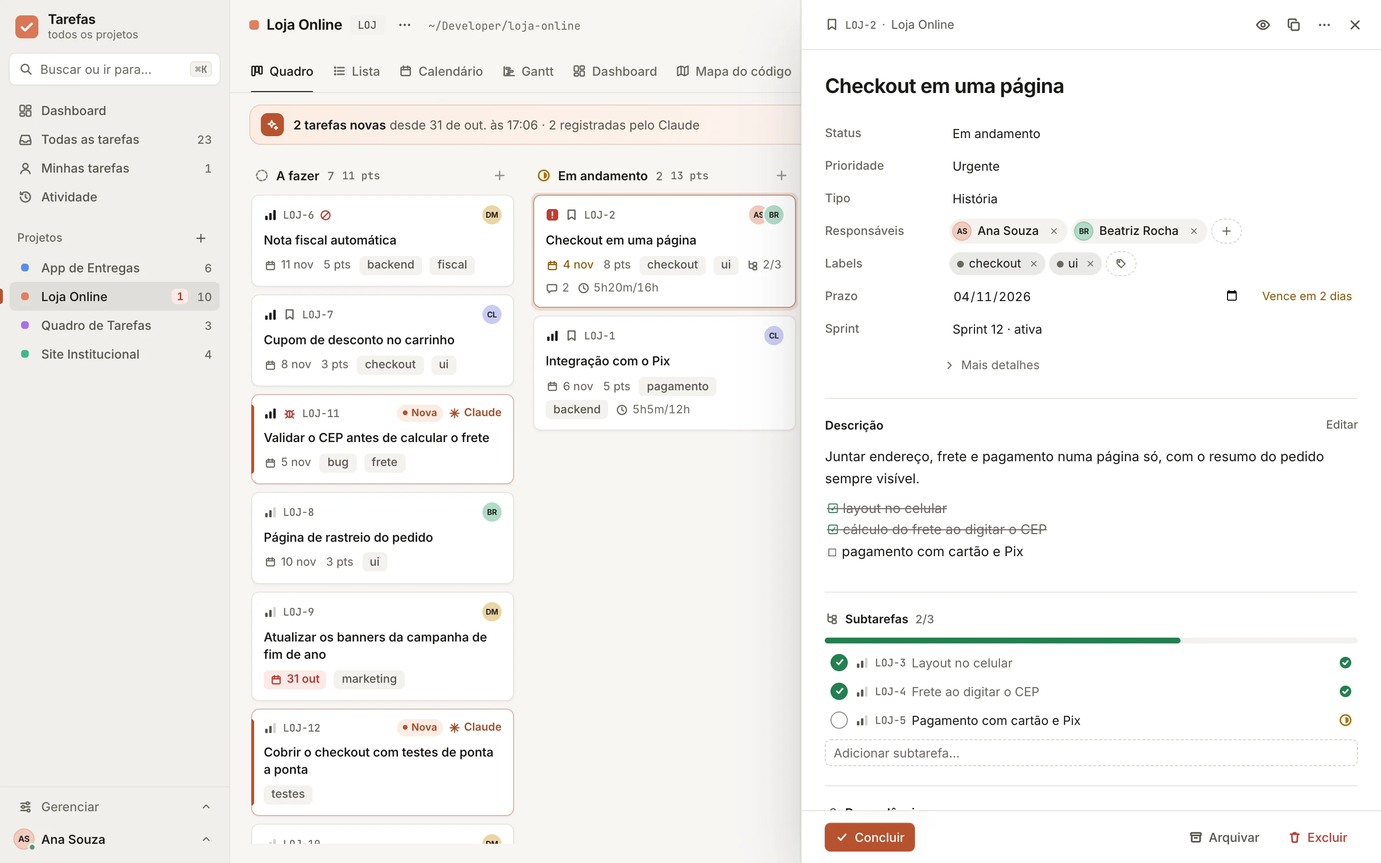
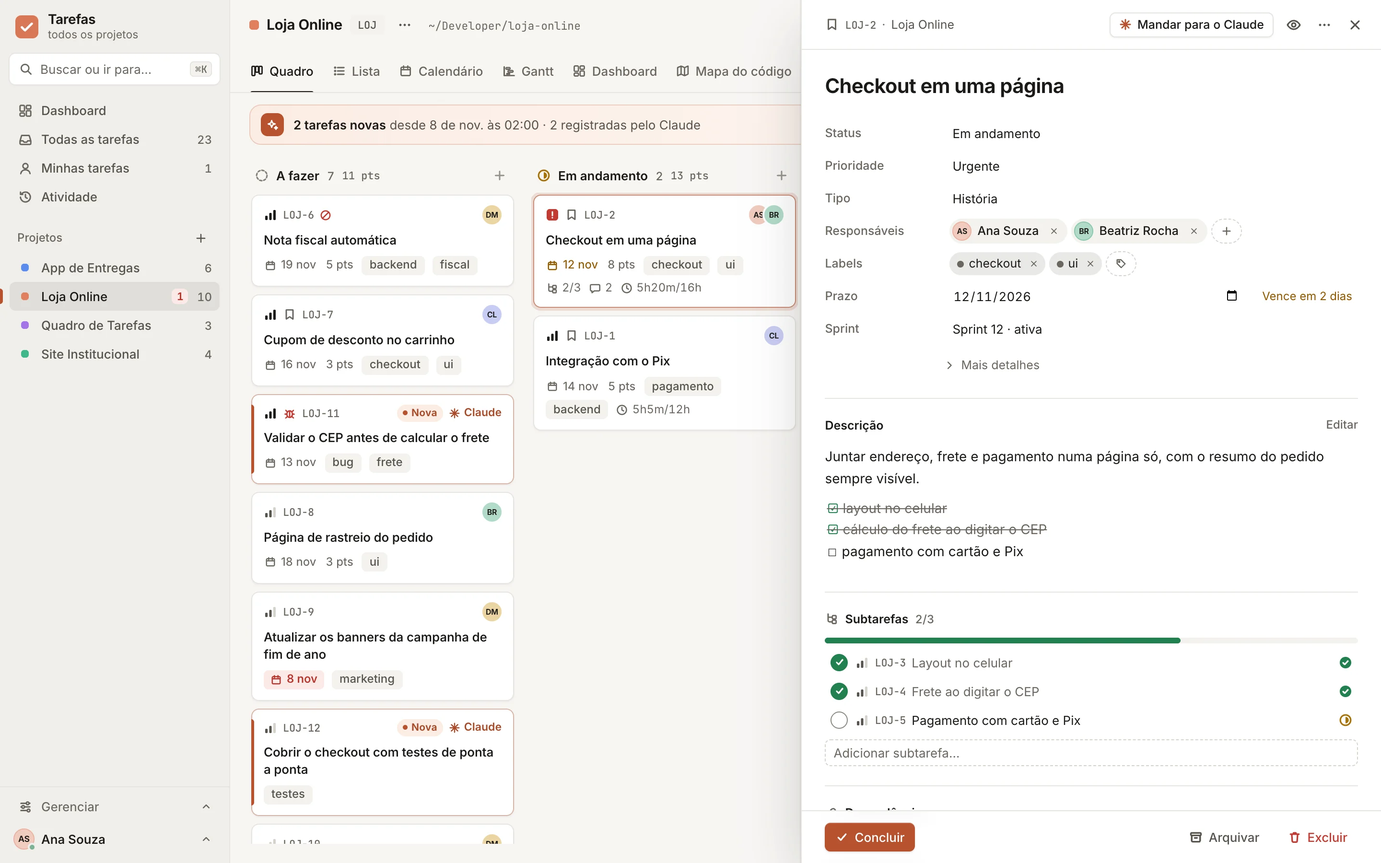
Botão "Mandar para o Claude" e prompt resolver no MCP
O detalhe da tarefa já copiava um pedido para o Claude, mas por um ícone
sem texto. Ele vira o botão "Mandar para o Claude": copia o pedido com o
número ou o código do cartão e diz em que pasta a sessão deve estar. No
celular a ação fica no menu ⋯, que também ganha "Copiar comando do
Terminal" em projetos com pasta.

MCP 4.3: o prompt resolver pega uma tarefa específica, avisa se ela está
concluída, arquivada ou bloqueada e se a sessão está fora da pasta do
projeto. Os prompts concluir e quebrar_tarefa passam a entender o código
do projeto (WEB-12), que antes era lido como o número geral 12.

No cabeçalho do detalhe, o código da tarefa não quebra mais em duas
linhas, os nomes longos encurtam com reticências e o selo do Claude fica
compacto.

O teste de recorrência usava datas fixas e só passava até 04/11/2026;
agora usa datas a partir de hoje.

diff --git a/public/js/drawer.js b/public/js/drawer.js
@@ -443,10 +443,10 @@ function render() {
       ${x.parent_id ? `<span>·</span><button class="link-btn parent" data-open="${x.parent_id}">${ICON.subtask}${esc(x.parent_title || `#${x.parent_id}`)}</button>` : ''}
       ${x.archived_at ? `<span class="chip">${t('arquivada')}</span>` : ''}
       ${!canEdit ? `<span class="chip">${ICON.eye}${t('somente leitura')}</span>` : ''}
-      ${x.source === 'claude' ? `<span class="by claude" title="${esc(t('Criada pelo Claude'))}">${ICON.claude}${t('Registrada pelo Claude')}</span>` : ''}
+      ${x.source === 'claude' ? `<span class="by claude" title="${esc(t('Registrada pelo Claude'))}">${ICON.claude}${t('Claude')}</span>` : ''}
       <span class="spacer"></span>
+      <button class="btn bordered small send-claude" data-action="copy" aria-label="${esc(t('Mandar para o Claude'))}" title="${esc(t('Copiar pedido para colar numa sessão do Claude'))}">${ICON.claude}<span>${t('Mandar para o Claude')}</span></button>
       <button class="icon-btn small ${watching ? 'on' : ''}" data-action="watch" aria-pressed="${!!watching}" aria-label="${esc(watching ? t('Deixar de acompanhar') : t('Acompanhar (receber notificações)'))}" title="${esc(watching ? t('Deixar de acompanhar') : t('Acompanhar (receber notificações)'))}">${ICON.eye}</button>
-      <button class="icon-btn small" data-action="copy" aria-label="${esc(t('Copiar pedido para colar numa sessão do Claude'))}" title="${esc(t('Copiar pedido para colar numa sessão do Claude'))}">${ICON.copy}</button>
       <button class="icon-btn small" data-action="more" aria-label="${esc(t('Mais ações'))}" title="${esc(t('Mais ações'))}" aria-haspopup="menu" aria-expanded="false">${ICON.more}</button>
       <button class="icon-btn small" data-action="close" aria-label="${esc(t('Fechar (Esc)'))}" title="${esc(t('Fechar (Esc)'))}">${ICON.close}</button>
     </div>
@@ -579,16 +579,45 @@ async function shareTask() {
   refreshDrawer();
 }
 
+// O pedido que a pessoa cola numa sessão do Claude. Leva o número que aparece no cartão: o MCP
+// entende tanto "#28" quanto o código do projeto ("WEB-12").
+const claudeRequest = (x) => t('Resolva a tarefa {ref} do quadro de tarefas (“{title}”, projeto {project}). Leia os detalhes com get_task, marque como em andamento e, ao terminar, conclua com complete_tasks e uma nota do que foi feito.', { ref: taskRef(x), title: x.title, project: x.project_name });
+
+// Sem acesso à área de transferência (página fora de HTTPS, permissão negada), o texto vai no aviso.
+async function copyText(text, done) {
+  try {
+    await navigator.clipboard.writeText(text);
+    toast(done);
+  } catch {
+    toast(text);
+  }
+}
+
+function sendToClaude() {
+  const x = task;
+  return copyText(claudeRequest(x), x.project_path
+    ? t('Pedido copiado. Cole numa sessão do Claude aberta em {path}', { path: tilde(x.project_path) })
+    : t('Pedido copiado. Cole numa sessão do Claude'));
+}
+
+// Uma linha que abre a sessão já na pasta do projeto, com o pedido.
+const shellQuote = (text) => `'${String(text).replaceAll("'", "'\\''")}'`;
+const copyTerminalCommand = () => copyText(`cd ${shellQuote(task.project_path)} && claude ${shellQuote(claudeRequest(task))}`, t('Comando copiado. Cole no Terminal'));
+
 function moreMenu(anchor) {
   const x = task;
   const canEdit = editable();
+  // No celular o botão do cabeçalho some (styles.css) e a ação fica aqui.
+  const narrow = matchMedia('(max-width: 820px)').matches;
   showMenu(anchor, [
+    ...(narrow ? [{ label: t('Mandar para o Claude'), icon: ICON.claude, onClick: sendToClaude }, { divider: true }] : []),
     ...(canEdit ? [
       { label: t('Adicionar subtarefa'), icon: ICON.subtask, onClick: () => $('[data-form="subtask"] input')?.focus() },
       { label: x.timer_running ? t('Parar timer') : t('Iniciar timer'), icon: ICON.clock, onClick: () => timer(x.timer_running ? 'stop' : 'start') },
       { label: t('Criar link público de leitura'), icon: ICON.share, onClick: shareTask },
     ] : []),
     { label: t('Copiar link'), icon: ICON.link, onClick: () => navigator.clipboard.writeText(`${location.origin}/?task=${x.id}`).then(() => toast(t('Link copiado'))) },
+    ...(x.project_path ? [{ label: t('Copiar comando do Terminal'), icon: ICON.command, onClick: copyTerminalCommand }] : []),
     ...(canEdit ? [
       { divider: true },
       { label: x.archived_at ? t('Desarquivar') : t('Arquivar'), icon: ICON.archive, onClick: () => patch({ archived: !x.archived_at }) },
@@ -752,10 +781,7 @@ export function mountDrawer() {
     if (action === 'start' || action === 'stop') timer(action);
     if (action === 'time-form') { showTimeForm = !showTimeForm; renderSections(); $('[data-form="time"] input')?.focus(); }
     if (action === 'upload') $('#d-file').click();
-    if (action === 'copy') {
-      await navigator.clipboard.writeText(t('Pegue a tarefa #{id} do quadro de tarefas (“{title}”), leia os detalhes com get_task e trabalhe nela.', { id: x.id, title: x.title }));
-      toast(t('Pedido copiado. Cole numa sessão do Claude'));
-    }
+    if (action === 'copy') sendToClaude();
   };
 
   d.onchange = (e) => {

diff --git a/src/mcp/prompts.js b/src/mcp/prompts.js
@@ -13,8 +13,16 @@ function projectArg(value) {
   return store.resolveProject({ project_path: process.cwd(), create: false });
 }
 
+// Aceita 12, "#12", o código do projeto ("WEB-12") e a sugestão do autocompletar ("12 Título").
 function taskArg(value) {
-  const id = Number(String(value || '').match(/\d+/)?.[0]);
+  const text = String(value || '').trim();
+  const code = text.match(/^#?([A-Za-z][A-Za-z0-9]{1,9}-\d+)(?![\w-])/)?.[1];
+  let id = null;
+  try {
+    id = code ? store.resolveTaskRef(code) : Number(text.match(/\d+/)?.[0]);
+  } catch {
+    // Código que não existe: cai no erro abaixo.
+  }
   const t = id && store.taskWithNotes(id);
   if (!t) throw Object.assign(new Error(`Tarefa "${value}" não encontrada`), { code: -32602 });
   return t;
@@ -60,6 +68,38 @@ Depois:
 
 Candidatas:
 ${candidates.map((t) => `- ${formatTask(t, { withProject: !p })}`).join('\n') || '(nenhuma tarefa disponível — avise o usuário)'}`;
+    },
+  },
+
+  resolver: {
+    title: 'Resolver tarefa',
+    description: 'Pega uma tarefa específica do quadro, marca como em andamento, faz o trabalho e conclui com uma nota do que foi feito.',
+    arguments: [{ name: 'tarefa', description: 'Número ou código da tarefa, ex.: 28 ou WEB-12', required: true }],
+    build({ tarefa }) {
+      const t = taskArg(tarefa);
+      const open = t.subtasks.filter((s) => s.status !== 'done');
+      const blockers = t.blockers.filter((b) => b.status !== 'done');
+      const warnings = [];
+      if (t.status === 'done') warnings.push('Esta tarefa já está concluída. Pergunte se é para reabrir antes de mexer em qualquer coisa.');
+      if (t.archived_at) warnings.push('Esta tarefa está arquivada. Pergunte se é para desarquivar antes de trabalhar nela.');
+      if (blockers.length) warnings.push(`${blockers.length} tarefa(s) precisam vir antes desta (veja "Bloqueada por"). Pergunte se é para resolver essas primeiro.`);
+      // O código da tarefa mora na pasta do projeto dela; worktrees contam como o mesmo projeto.
+      const here = store.resolveProject({ project_path: process.cwd(), create: false });
+      if (t.project_path && here?.id !== t.project_id) {
+        warnings.push(`Esta sessão está em ${process.cwd()}, e o projeto da tarefa fica em ${t.project_path}. Avise o usuário e não mexa em arquivos daqui sem ele confirmar.`);
+      }
+      return [
+        `Resolva a tarefa #${t.id} do quadro, do começo ao fim.`,
+        ...warnings.map((w) => `Atenção: ${w}`),
+        '',
+        '1. Marque como "doing" com update_task.',
+        '2. Os detalhes estão abaixo; use get_attachment se precisar ver um anexo.',
+        `3. Faça o trabalho.${open.length ? ` Ela tem ${open.length} subtarefa(s) aberta(s): resolva na ordem e conclua cada uma ao terminar.` : ''}`,
+        '4. Se travar em algo que depende do usuário ou de terceiros, marque como "blocked" com uma nota dizendo o que falta, e pare.',
+        '5. Ao terminar, use complete_tasks com uma nota curta do que foi feito, e registre com add_tasks o que ficar pendente.',
+        '',
+        describeTask(t),
+      ].join('\n');
     },
   },
 

diff --git a/test/mcp.test.js b/test/mcp.test.js
@@ -238,7 +238,7 @@ test('resources: lista, templates e leitura', async () => {
 test('prompts e autocompletar', async () => {
   const list = await rpc('prompts/list');
   assert.deepEqual(list.result.prompts.map((p) => p.name).sort(), [
-    'concluir', 'pendencias', 'planejar_sprint', 'proxima', 'quebrar_tarefa', 'registrar_pendencias', 'relatorio', 'revisar_prazos', 'triagem',
+    'concluir', 'pendencias', 'planejar_sprint', 'proxima', 'quebrar_tarefa', 'registrar_pendencias', 'relatorio', 'resolver', 'revisar_prazos', 'triagem',
   ]);
   const p = await rpc('prompts/get', { name: 'pendencias', arguments: { projeto: 'MeuApp' } });
   assert.equal(p.result.messages[0].role, 'user');
@@ -254,6 +254,32 @@ test('prompts e autocompletar', async () => {
   assert.ok(c1.result.completion.values.includes('MeuApp'));
   const c2 = await rpc('completion/complete', { ref: { type: 'ref/resource', uri: 'tarefas://tasks/{id}' }, argument: { name: 'id', value: '' } });
   assert.ok(c2.result.completion.values.length > 0);
+});
+
+test('prompt resolver: pega a tarefa pelo número ou pelo código e avisa se a pasta é outra', async () => {
+  const text = async (name, tarefa) => (await rpc('prompts/get', { name, arguments: { tarefa } })).result.messages[0].content.text;
+  const byId = await text('resolver', '2');
+  assert.match(byId, /^Resolva a tarefa #2 do quadro/);
+  assert.match(byId, /update_task[\s\S]*complete_tasks/);
+  // O MCP do teste roda fora da pasta do projeto MeuApp.
+  assert.match(byId, /Atenção: Esta sessão está em .*, e o projeto da tarefa fica em .*MeuApp/);
+  assert.equal(await text('resolver', '#2'), byId);
+
+  // Com código de projeto, "COD-1" não pode virar a tarefa de número geral 1.
+  await call('manage_project', { action: 'create', name: 'Com código', key: 'COD' });
+  await call('add_tasks', { project: 'Com código', tasks: [{ title: 'Tarefa com código' }] });
+  const byCode = await text('resolver', 'COD-1');
+  assert.match(byCode, /Tarefa com código/);
+  // Projeto sem pasta: não há com o que comparar a pasta da sessão.
+  assert.doesNotMatch(byCode, /Atenção: Esta sessão está em/);
+  assert.match(await text('concluir', 'cod-1'), /Tarefa com código/);
+
+  const missing = await rpc('prompts/get', { name: 'resolver', arguments: { tarefa: 'COD-99' } });
+  assert.equal(missing.error.code, -32602);
+  const done = await call('complete_tasks', { ids: ['COD-1'], note: 'feito' });
+  assert.equal(done.isError, false);
+  assert.match(await text('resolver', 'COD-1'), /Atenção: Esta tarefa já está concluída/);
+  await call('manage_project', { action: 'archive', project: 'Com código' });
 });
 
 test('erros voltam como isError', async () => {

diff --git a/test/features.test.js b/test/features.test.js
@@ -8,7 +8,7 @@ import { Store } from '../src/db.js';
 import { exportCsv, importCsv, importJiraIssues, importTrelloBoard, parseCsv } from '../src/importers.js';
 import { ingestRaw, saveInbox, saveRule } from '../src/inbox.js';
 import { isEncrypted } from '../src/secret.js';
-import { nextOccurrence } from '../src/util.js';
+import { addDays, nextOccurrence, today } from '../src/util.js';
 
 let dir, store, P;
 const ME = { author: 'user', user_id: 1 };
@@ -93,10 +93,13 @@ test('dependências com tipo e sem ciclos', () => {
 test('recorrência avançada: dias da semana, último dia do mês e limite de vezes', () => {
   assert.equal(nextOccurrence('2026-11-02', { freq: 'weekly', interval: 1, weekdays: [1, 3] }), '2026-11-04');
   assert.equal(nextOccurrence('2026-01-31', { freq: 'monthly', interval: 1, monthday: 'last' }), '2026-02-28');
-  const t = store.addTask(P.id, { title: 'Relatório', due_date: '2026-11-02', recurrence: { freq: 'weekly', weekdays: [1, 3], count: 2 } }, ME).task;
+  // Prazo na próxima segunda-feira: a ocorrência seguinte nunca cai antes de hoje, então uma data
+  // fixa no passado faria o resultado depender do dia em que o teste roda.
+  const monday = nextOccurrence(today(), { freq: 'weekly', weekdays: [1] });
+  const t = store.addTask(P.id, { title: 'Relatório', due_date: monday, recurrence: { freq: 'weekly', weekdays: [1, 3], count: 2 } }, ME).task;
   const done1 = store.updateTask(t.id, { status: 'done' }, ME);
   const next = store.task(done1.recurrence_next_id);
-  assert.equal(next.due_date, '2026-11-04');
+  assert.equal(next.due_date, addDays(monday, 2));
   const done2 = store.updateTask(next.id, { status: 'done' }, ME);
   assert.equal(done2.recurrence_next_id, null, 'parou na 2ª ocorrência');
 });

diff --git a/public/js/i18n/de.js b/public/js/i18n/de.js
@@ -559,8 +559,12 @@ export default {
   'Você deixou de acompanhar': 'Du beobachtest diese Aufgabe nicht mehr',
   'Tarefa desarquivada': 'Archivierung der Aufgabe aufgehoben',
   'Tarefa arquivada': 'Aufgabe archiviert',
-  'Pegue a tarefa #{id} do quadro de tarefas (“{title}”), leia os detalhes com get_task e trabalhe nela.': 'Nimm dir die Aufgabe #{id} aus dem Aufgaben-Board vor („{title}“), lies die Details mit get_task und arbeite daran.',
+  'Resolva a tarefa {ref} do quadro de tarefas (“{title}”, projeto {project}). Leia os detalhes com get_task, marque como em andamento e, ao terminar, conclua com complete_tasks e uma nota do que foi feito.': 'Erledige die Aufgabe {ref} aus dem Aufgaben-Board („{title}“, Projekt {project}). Lies die Details mit get_task, setze sie auf „In Arbeit“ und schließe sie am Ende mit complete_tasks und einer Notiz dazu ab, was gemacht wurde.',
   'Pedido copiado. Cole numa sessão do Claude': 'Anfrage kopiert. Füge sie in eine Claude-Sitzung ein',
+  'Pedido copiado. Cole numa sessão do Claude aberta em {path}': 'Anfrage kopiert. Füge sie in eine Claude-Sitzung ein, die in {path} geöffnet ist',
+  'Mandar para o Claude': 'An Claude senden',
+  'Copiar comando do Terminal': 'Terminal-Befehl kopieren',
+  'Comando copiado. Cole no Terminal': 'Befehl kopiert. Füge ihn im Terminal ein',
   'Tarefa movida': 'Aufgabe verschoben',
   'Informe o número da tarefa, ex.: #12': 'Gib die Aufgabennummer ein, z. B. #12',
   'Tempo registrado': 'Zeit erfasst',

diff --git a/public/js/i18n/fr.js b/public/js/i18n/fr.js
@@ -559,8 +559,12 @@ export default {
   'Você deixou de acompanhar': 'Vous ne suivez plus cette tâche',
   'Tarefa desarquivada': 'Tâche désarchivée',
   'Tarefa arquivada': 'Tâche archivée',
-  'Pegue a tarefa #{id} do quadro de tarefas (“{title}”), leia os detalhes com get_task e trabalhe nela.': 'Prends la tâche #{id} du tableau des tâches (« {title} »), lis les détails avec get_task et travaille dessus.',
+  'Resolva a tarefa {ref} do quadro de tarefas (“{title}”, projeto {project}). Leia os detalhes com get_task, marque como em andamento e, ao terminar, conclua com complete_tasks e uma nota do que foi feito.': 'Résous la tâche {ref} du tableau des tâches (« {title} », projet {project}). Lis les détails avec get_task, marque-la comme en cours et, une fois terminée, clôture-la avec complete_tasks et une note sur ce qui a été fait.',
   'Pedido copiado. Cole numa sessão do Claude': 'Demande copiée. Collez-la dans une session Claude',
+  'Pedido copiado. Cole numa sessão do Claude aberta em {path}': 'Demande copiée. Collez-la dans une session Claude ouverte dans {path}',
+  'Mandar para o Claude': 'Envoyer à Claude',
+  'Copiar comando do Terminal': 'Copier la commande du Terminal',
+  'Comando copiado. Cole no Terminal': 'Commande copiée. Collez-la dans le Terminal',
   'Tarefa movida': 'Tâche déplacée',
   'Informe o número da tarefa, ex.: #12': 'Indiquez le numéro de la tâche, ex. : #12',
   'Tempo registrado': 'Temps saisi',

diff --git a/public/js/i18n/es.js b/public/js/i18n/es.js
@@ -559,8 +559,12 @@ export default {
   'Você deixou de acompanhar': 'Has dejado de seguir esta tarea',
   'Tarefa desarquivada': 'Tarea desarchivada',
   'Tarefa arquivada': 'Tarea archivada',
-  'Pegue a tarefa #{id} do quadro de tarefas (“{title}”), leia os detalhes com get_task e trabalhe nela.': 'Toma la tarea #{id} del tablero de tareas («{title}»), lee los detalles con get_task y trabaja en ella.',
+  'Resolva a tarefa {ref} do quadro de tarefas (“{title}”, projeto {project}). Leia os detalhes com get_task, marque como em andamento e, ao terminar, conclua com complete_tasks e uma nota do que foi feito.': 'Resuelve la tarea {ref} del tablero de tareas («{title}», proyecto {project}). Lee los detalles con get_task, márcala como en curso y, al terminar, complétala con complete_tasks y una nota de lo que se hizo.',
   'Pedido copiado. Cole numa sessão do Claude': 'Petición copiada. Pégala en una sesión de Claude',
+  'Pedido copiado. Cole numa sessão do Claude aberta em {path}': 'Petición copiada. Pégala en una sesión de Claude abierta en {path}',
+  'Mandar para o Claude': 'Enviar a Claude',
+  'Copiar comando do Terminal': 'Copiar comando del Terminal',
+  'Comando copiado. Cole no Terminal': 'Comando copiado. Pégalo en el Terminal',
   'Tarefa movida': 'Tarea movida',
   'Informe o número da tarefa, ex.: #12': 'Indica el número de la tarea, p. ej.: #12',
   'Tempo registrado': 'Tiempo registrado',

diff --git a/public/js/i18n/en.js b/public/js/i18n/en.js
@@ -559,8 +559,12 @@ export default {
   'Você deixou de acompanhar': 'You’re no longer watching',
   'Tarefa desarquivada': 'Task unarchived',
   'Tarefa arquivada': 'Task archived',
-  'Pegue a tarefa #{id} do quadro de tarefas (“{title}”), leia os detalhes com get_task e trabalhe nela.': 'Take task #{id} from the task board (“{title}”), read the details with get_task and work on it.',
+  'Resolva a tarefa {ref} do quadro de tarefas (“{title}”, projeto {project}). Leia os detalhes com get_task, marque como em andamento e, ao terminar, conclua com complete_tasks e uma nota do que foi feito.': 'Resolve task {ref} from the task board (“{title}”, project {project}). Read the details with get_task, mark it as in progress and, when you finish, complete it with complete_tasks and a note about what was done.',
   'Pedido copiado. Cole numa sessão do Claude': 'Prompt copied. Paste it into a Claude session',
+  'Pedido copiado. Cole numa sessão do Claude aberta em {path}': 'Prompt copied. Paste it into a Claude session opened in {path}',
+  'Mandar para o Claude': 'Send to Claude',
+  'Copiar comando do Terminal': 'Copy Terminal command',
+  'Comando copiado. Cole no Terminal': 'Command copied. Paste it into the Terminal',
   'Tarefa movida': 'Task moved',
   'Informe o número da tarefa, ex.: #12': 'Enter the task number, e.g. #12',
   'Tempo registrado': 'Time logged',

diff --git a/public/styles.css b/public/styles.css
@@ -1041,7 +1041,19 @@ td.c-points, td.c-time, td.c-due { font-variant-numeric: tabular-nums; }
   min-width: 0;
 }
 .drawer-head .type-icon svg { width: 15px; height: 15px; }
-.drawer-head .by.claude { height: 22px; padding: 0 8px; border-radius: 11px; background: var(--accent-weak); }
+.drawer-head .by.claude { flex: none; height: 22px; padding: 0 8px; border-radius: 11px; background: var(--accent-weak); white-space: nowrap; }
+/* Quando falta espaço, o código da tarefa fica inteiro e os nomes encurtam com reticências:
+   primeiro o da tarefa-mãe e, só se ainda faltar, o do projeto. */
+.drawer-head .tid { flex: none; white-space: nowrap; }
+.drawer-head .link-btn { display: block; flex: 0 1 auto; min-width: 0; }
+.drawer-head .link-btn.parent { flex-shrink: 9999; min-width: 56px; }
+.drawer-head .link-btn svg { margin-right: 4px; vertical-align: -2px; }
+.send-claude { flex: none; margin-right: 2px; }
+.send-claude svg { width: 13px; height: 13px; color: var(--accent); }
+/* No celular o cabeçalho é estreito: "Mandar para o Claude" fica no menu ⋯. */
+@media (max-width: 820px) {
+  .send-claude { display: none; }
+}
 .link-btn.parent { color: var(--text-3); }
 .title-edit {
   width: 100%;

diff --git a/src/mcp.js b/src/mcp.js
@@ -7,7 +7,7 @@ import { PROMPTS, complete, getPrompt } from './mcp/prompts.js';
 import { RESOURCE_TEMPLATES, listResources, readResource } from './mcp/resources.js';
 import { TOOLS } from './mcp/tools.js';
 
-const SERVER_INFO = { name: 'tarefas', title: 'Quadro de tarefas', version: '4.2.0' };
+const SERVER_INFO = { name: 'tarefas', title: 'Quadro de tarefas', version: '4.3.0' };
 const SUPPORTED_VERSIONS = ['2025-11-25', '2025-06-18', '2025-03-26', '2024-11-05'];
 
 const INSTRUCTIONS = `Central task board shared across ALL of the user's projects (dashboard: ${BOARD_URL}). Keep it current:

diff --git a/docs/SISTEMA.md b/docs/SISTEMA.md
@@ -1,6 +1,6 @@
 # Quadro de Tarefas — Documentação do sistema
 
-> Versão 5 do esquema de dados · MCP 4.2.0 com 36 ferramentas · Node 22.13+ · sem dependências obrigatórias
+> Versão 5 do esquema de dados · MCP 4.3.0 com 36 ferramentas · Node 22.13+ · sem dependências obrigatórias
 
 Este documento descreve o sistema inteiro: o que ele faz, como está organizado, como instalar e operar (inclusive no Docker), como usar cada tela, as regras de negócio, as permissões, o modelo de dados, a API REST e a segurança. A referência completa do servidor MCP (as ferramentas que o Claude usa) está em [MCP.md](MCP.md), e o guia do Mapa do código (o mapa interativo do código de cada projeto) está em [MAPA.md](MAPA.md). A referência interativa da API REST fica no próprio painel, em `/docs/api`.
 
@@ -50,7 +50,7 @@ Ele foi inspirado no [Taskosaur](https://github.com/taskosaur/taskosaur) e hoje 
 - **Colaboração:** comentários em conversa com @menções, notificações por tipo e canal (painel, e-mail, macOS), links públicos de leitura.
 - **E-mail:** SMTP para convites, senha, notificações e automações; caixa de entrada IMAP por projeto que transforma e-mails em tarefas.
 - **Automação:** regras "quando X → faça Y" com 11 gatilhos e 12 ações, inclusive enviar e-mail e mover de sprint.
-- **IA:** MCP com 36 ferramentas, resources e 9 prompts; chat no painel com três provedores.
+- **IA:** MCP com 36 ferramentas, resources e 10 prompts; chat no painel com três provedores.
 - **Mapa do código:** plugin para Claude Code e Codex que desenha um mapa interativo do código de cada projeto, com verificação de saúde, telas, fluxos e trabalho recente; o quadro mostra o mapa numa aba, liga as tarefas aos arquivos e cria tarefas a partir dele. A **Simulação** leva o sistema do mapa ao simulador Breakscale e mostra onde ele quebra quando o tráfego sobe, com cada gargalo virando tarefa ([MAPA.md](MAPA.md)).
 - **Operação:** tempo real (SSE), busca universal ⌘K, 5 idiomas, painel de administração com backups, API REST documentada em OpenAPI 3.1, Docker e CI.
 
@@ -716,7 +716,7 @@ A URL guarda o estado (`?project=4&view=gantt&sprint=2&task=47`, ou `?workspace=
   - `1` a `5` escolhem a prioridade (Urgente a Mínima), `I` atribui a você, `S` põe na sprint ativa do projeto (o botão só aparece se houver uma) e `D` abre o prazo; a mudança vale na hora, como no detalhe da tarefa;
   - `Enter` aceita (tira a tarefa das novidades e vai para a próxima), `→` pula, `←` volta, `Backspace` arquiva (com **Desfazer**, tecla `Z`), `O` abre o detalhe completo e `Esc` fecha;
   - no fim, um resumo com o que foi aceito, arquivado e pulado: "Triagem zerada", ou **Revisar as puladas** se sobrou alguma.
-- **O Claude à vista:** tarefas que o Claude registrou mostram "✳ Claude" no card (e "Registrada pelo Claude" no detalhe).
+- **O Claude à vista:** tarefas que o Claude registrou mostram "✳ Claude" no card e no cabeçalho do detalhe (a dica do selo diz "Registrada pelo Claude").
 - **Brasa viva:** quando uma tarefa muda por fora (o Claude pelo MCP, outra pessoa, uma automação), o card (ou a linha, na Lista) acende uma brasa que se apaga em 4 segundos. Assim dá para ver o quadro reagir enquanto o Claude trabalha.
 
 ### 5.5 Lista
@@ -791,8 +791,8 @@ O detalhe abre ao clicar numa tarefa, em qualquer visão, e fecha com `Esc`. Par
 - **Cabeçalho:**
   - tipo, `#id`/código, projeto (clique abre o quadro dele) e tarefa-mãe;
   - **Acompanhar** (vira observador e recebe as notificações);
-  - **Copiar para o Claude:** gera um pedido pronto para colar numa sessão ("Pegue a tarefa #12 do quadro… leia os detalhes com get_task e trabalhe nela");
-  - menu `⋯`: adicionar subtarefa, timer, copiar link, criar link público de leitura, arquivar e excluir.
+  - **Mandar para o Claude:** copia um pedido pronto para colar numa sessão ("Resolva a tarefa #12 do quadro de tarefas…"), com o número ou o código que aparece no cartão, e o aviso diz em que pasta a sessão deve estar aberta. No celular, a ação fica no menu `⋯`. Numa sessão, o prompt `resolver` do MCP faz o mesmo (`/mcp__tarefas__resolver 12`);
+  - menu `⋯`: adicionar subtarefa, timer, copiar link, copiar comando do Terminal (em projetos com pasta: uma linha que abre o Claude já na pasta do projeto, com o pedido), criar link público de leitura, arquivar e excluir.
 - **Título:** editável no lugar. `Enter` salva.
 - **Campos:**
   - status/coluna (as colunas fora do fluxo aparecem como "transição não permitida"), prioridade, tipo;
@@ -1291,7 +1291,7 @@ Importar exige ser gerente ou dono do projeto de destino. Reimportar **atualiza*
 
 ### 11.1 MCP `tarefas`
 
-Servidor MCP local (stdio) registrado no escopo de usuário, disponível em todas as sessões do Claude Code de qualquer projeto. Tem 36 ferramentas, resources, 9 prompts (comandos `/mcp__tarefas__…`) e autocompletar. **Referência completa: [MCP.md](MCP.md).**
+Servidor MCP local (stdio) registrado no escopo de usuário, disponível em todas as sessões do Claude Code de qualquer projeto. Tem 36 ferramentas, resources, 10 prompts (comandos `/mcp__tarefas__…`) e autocompletar. **Referência completa: [MCP.md](MCP.md).**
 
 - **Quem é "eu":** `CLAUDE_TASKS_USER` (e-mail ou nome) ou, se o quadro tem uma única conta, essa conta.
 - **Permissões:** por padrão o MCP local tem acesso total (como o próprio arquivo do banco). Com `CLAUDE_TASKS_ENFORCE=1`, as ferramentas aplicam as permissões de "eu"; se "eu" não puder ser identificado, não há restrição.
